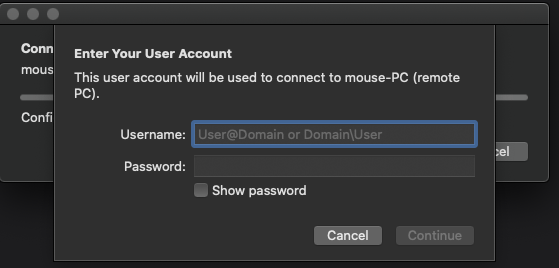
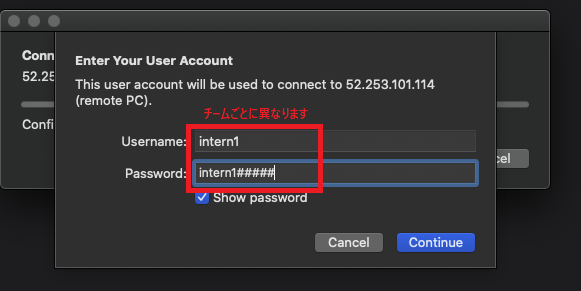
接続手順修正

Changed region(s): [[0.0, 0.0, 1.0, 0.9851]]

diff --git a/doc/connection/connection.md b/doc/connection/connection.md
@@ -58,7 +58,7 @@
 
     ![Macリモートデスクトップ接続4](img/mac_remote4.png)
 
-1. 画面上の「」をダブルクリックします。  
+1. 作成されたボタンをダブルクリックします。  
   ![Macリモートデスクトップ接続5](img/mac_remote5.png)
 
 1. ユーザー名とパスワードに以下を入れて「Continue」を押します。
